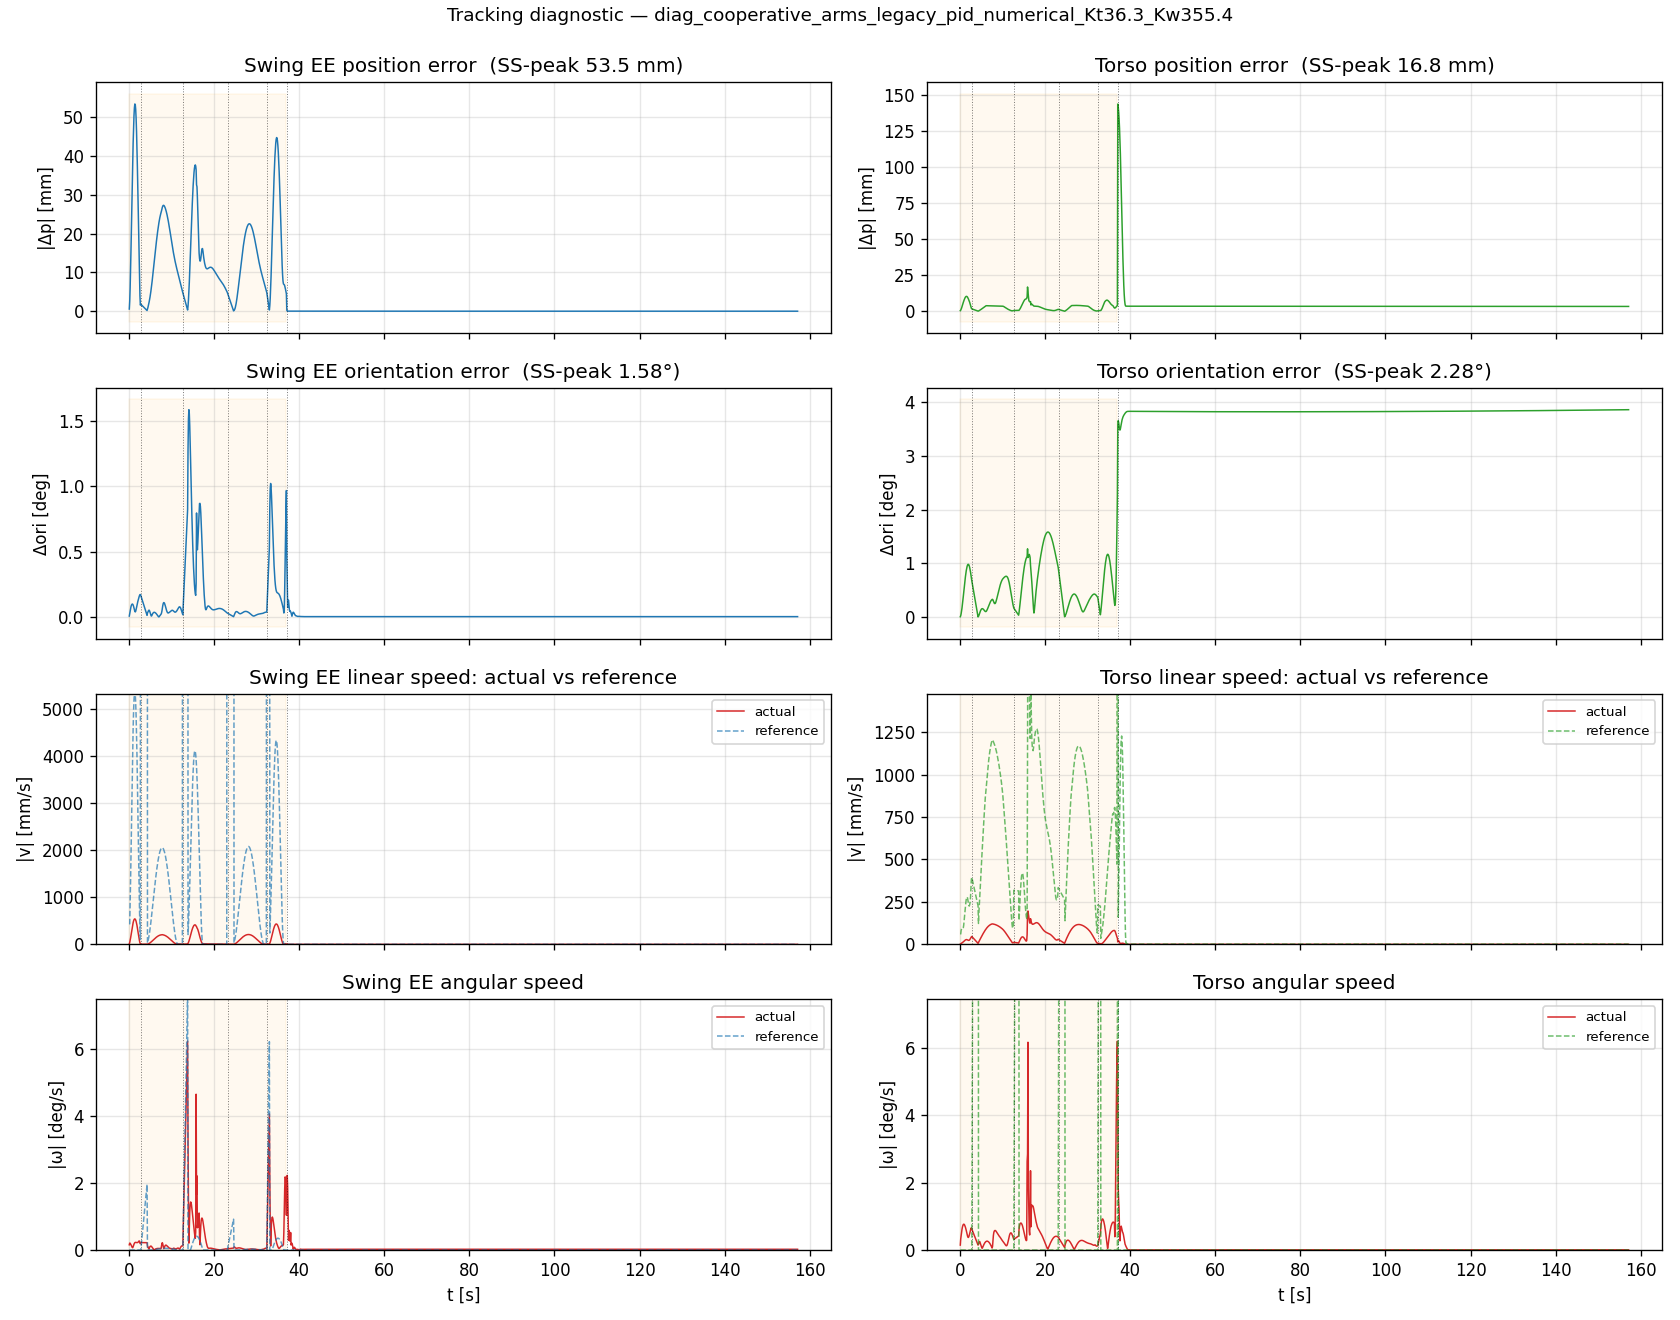
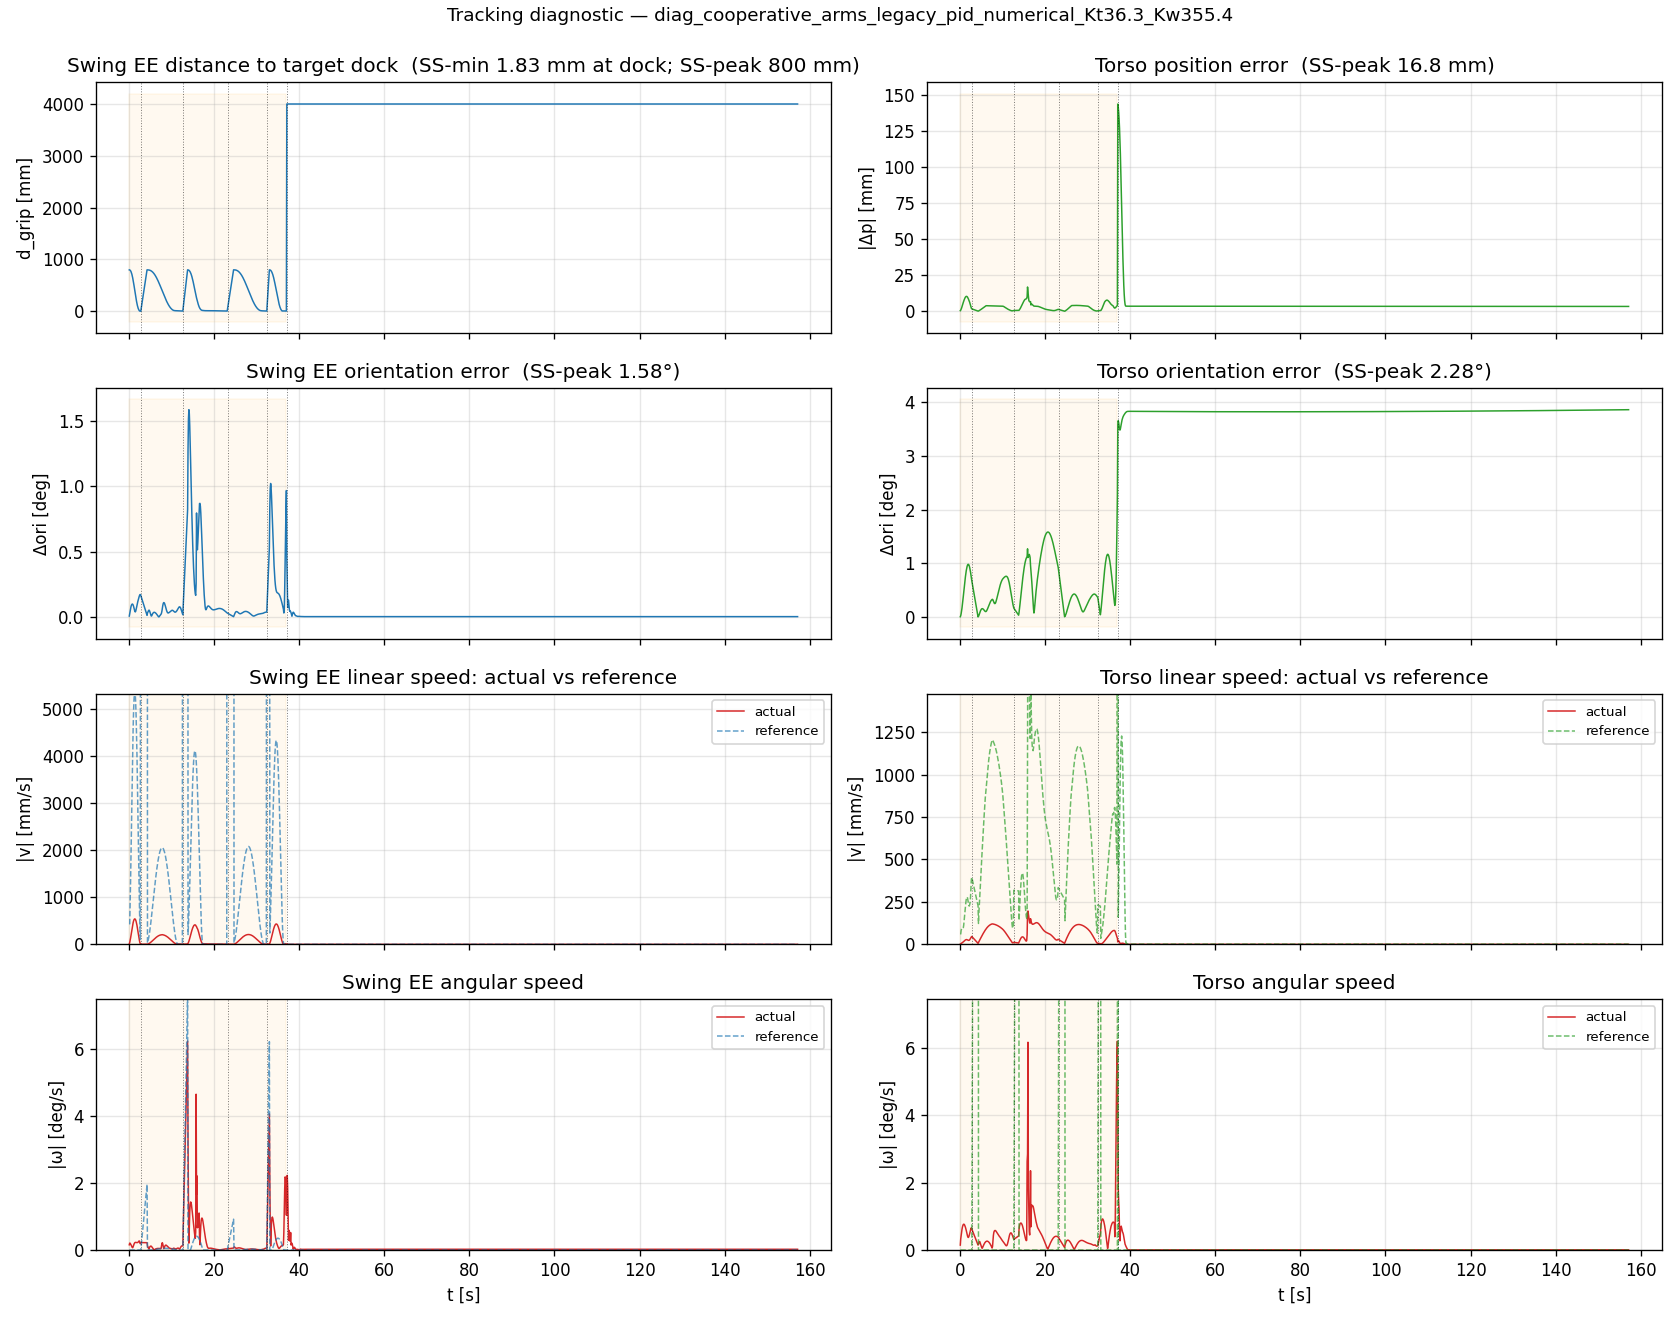
diag: tracking — swing EE panel shows distance to TARGET, not reference
The original tracking panel for swing EE position used e_ee_pos
(error vs the time-varying reference trajectory), which obscured the
convergence story. Replaced with d_grip_swing — distance from the
swing EE to its target dock anchor.

Numbers from the pole-placement run:
  swing EE→target: 800 mm at swing-start → 1.83 mm at dock (min)
  median 154 mm during SS — i.e., the EE is on average ~15 cm from
  its target through the swing, converging in the last ~100 ms.

The other three EE panels (orientation, linear speed, angular speed)
are unchanged — orientation per-tick target is not in the log and
would require recomputing from the anchor SE3. Torso panels also
unchanged: torso tracks a reference trajectory throughout, no single
"final" target, so reference-tracking is the canonical metric.

https://claude.ai/code/session_01RUqPPfDJRQKQQP9LxJmXK4

Changed region(s): [[0.031, 0.0311, 0.4952, 0.1242], [0.0, 0.1242, 0.1857, 0.2485]]

diff --git a/scripts/diag_tracking.py b/scripts/diag_tracking.py
@@ -98,7 +98,12 @@ def main():
     dock_t = [e['t'] for e in sl['dock_events']]
 
     # EE-side
-    e_ee_pos = np.array(sl['e_ee_pos'])
+    # d_grip_swing = distance from the swing EE to its TARGET dock anchor
+    # (the hotdock the EE is converging to). This is the "tracking" signal
+    # the user wants: it shows the EE approaching the dock, decreasing
+    # monotonically through the swing rather than the noisier reference-
+    # trajectory error e_ee_pos.
+    d_grip_swing = np.array(sl['d_grip_swing'])
     e_ee_ori = np.array(sl['e_ee_ori'])
     p_ee_ref = np.array(sl['p_ee_ref'])
     q_ee_ref = np.array(sl['q_ee_ref'])
@@ -138,13 +143,14 @@ def main():
     # SS-only peaks (when tracking actually matters)
     ss = ph == 'SS'
     print(f'  SS-phase peak tracking errors:')
-    print(f'    swing EE  pos: peak {e_ee_pos[ss].max() * 1000:.2f} mm,  '
-          f'median {np.median(e_ee_pos[ss]) * 1000:.2f} mm')
-    print(f'    swing EE  ori: peak {e_ee_ori[ss].max():.3f} deg, '
+    print(f'    swing EE→target  : peak {d_grip_swing[ss].max() * 1000:.2f} mm, '
+          f'median {np.median(d_grip_swing[ss]) * 1000:.2f} mm, '
+          f'at-dock {d_grip_swing[ss].min() * 1000:.2f} mm (min)')
+    print(f'    swing EE  ori (vs ref): peak {e_ee_ori[ss].max():.3f} deg, '
           f'median {np.median(e_ee_ori[ss]):.3f} deg')
-    print(f'    torso     pos: peak {e_torso_pos[ss].max():.2f} mm,  '
+    print(f'    torso     pos (vs ref): peak {e_torso_pos[ss].max():.2f} mm, '
           f'median {np.median(e_torso_pos[ss]):.2f} mm')
-    print(f'    torso     ori: peak {e_torso_ori[ss].max():.3f} deg, '
+    print(f'    torso     ori (vs ref): peak {e_torso_ori[ss].max():.3f} deg, '
           f'median {np.median(e_torso_ori[ss]):.3f} deg')
     print()
     print(f'  SS-phase peak speeds:')
@@ -170,10 +176,14 @@ def main():
         a.grid(alpha=0.3)
 
     # Column 0: swing EE
-    ax[0, 0].plot(t, e_ee_pos * 1000, 'C0', lw=0.9)
-    ax[0, 0].set_ylabel('|Δp| [mm]')
-    ax[0, 0].set_title(f'Swing EE position error  (SS-peak '
-                       f'{e_ee_pos[ss].max()*1000:.1f} mm)')
+    # Position panel uses d_grip_swing — distance from the swing EE to its
+    # target dock anchor. This converges toward zero as the EE reaches the
+    # hotdock (the "tracking-to-target" view).
+    ax[0, 0].plot(t, d_grip_swing * 1000, 'C0', lw=0.9)
+    ax[0, 0].set_ylabel('d_grip [mm]')
+    ax[0, 0].set_title(f'Swing EE distance to target dock  '
+                       f'(SS-min {d_grip_swing[ss].min()*1000:.2f} mm at dock; '
+                       f'SS-peak {d_grip_swing[ss].max()*1000:.0f} mm)')
 
     ax[1, 0].plot(t, e_ee_ori, 'C0', lw=0.9)
     ax[1, 0].set_ylabel('Δori [deg]')
